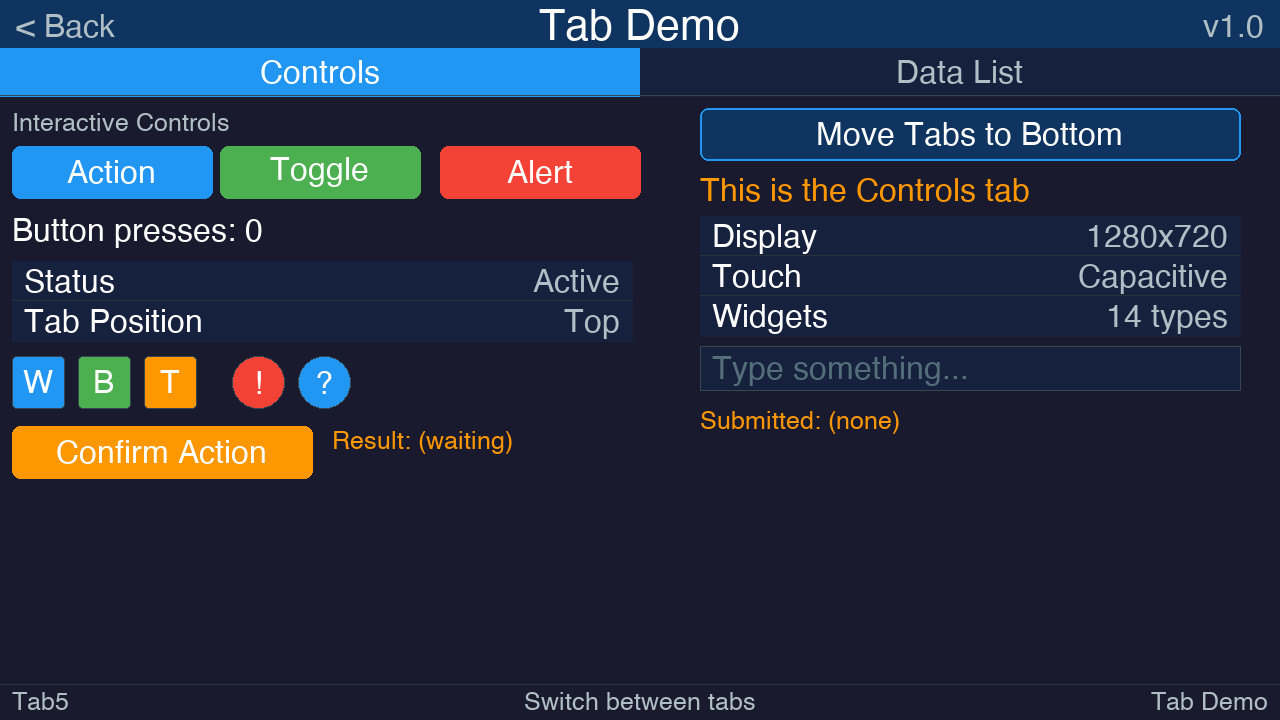
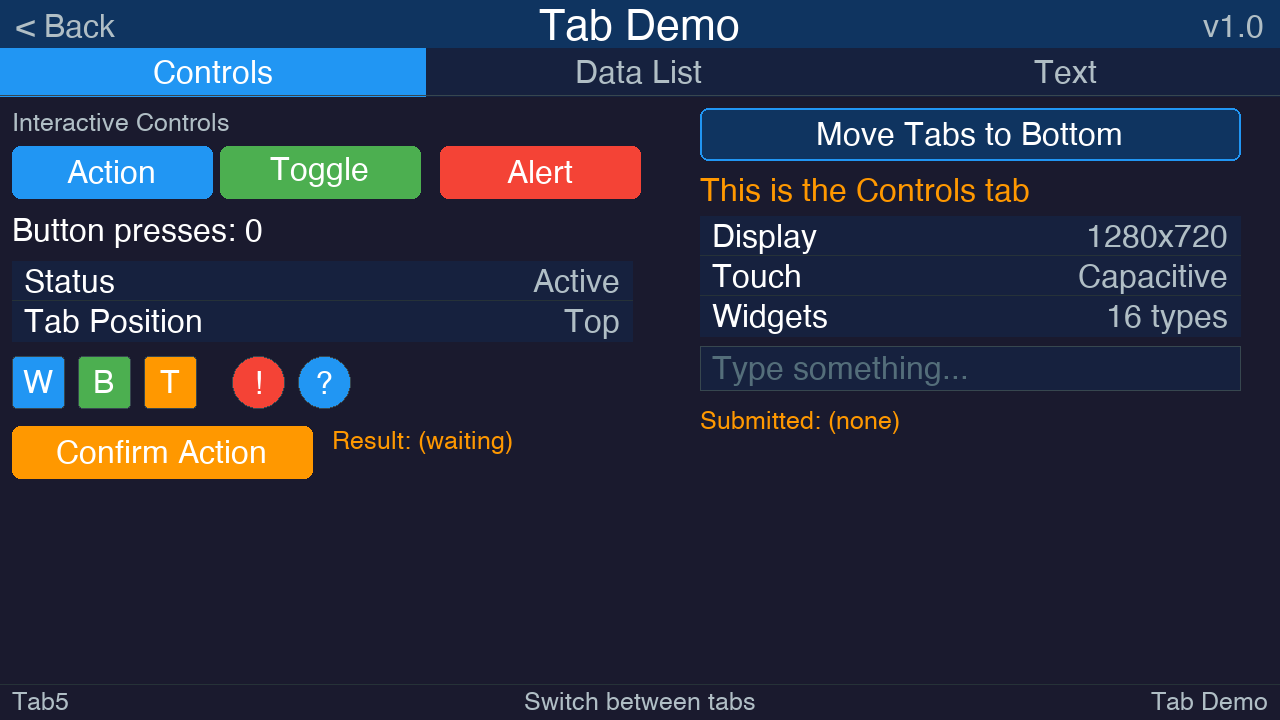
Added UIScrollText widget

Changed region(s): [[0.125, 0.0611, 0.5625, 0.1528], [0.6875, 0.0917, 0.875, 0.1222], [0.875, 0.4278, 0.9062, 0.4583]]

diff --git a/Tab5UI.cpp b/Tab5UI.cpp
@@ -2035,6 +2035,235 @@ void UIConfirmPopup::handleTouchUp(int16_t tx, int16_t ty) {
 }
 
 // ═════════════════════════════════════════════════════════════════════════════
+//  UIScrollText
+// ═════════════════════════════════════════════════════════════════════════════
+
+UIScrollText::UIScrollText(int16_t x, int16_t y, int16_t w, int16_t h,
+                           uint32_t bgColor, uint32_t textColor)
+    : UIElement(x, y, w, h)
+    , _bgColor(bgColor), _textColor(textColor)
+{
+    _text[0] = '\0';
+}
+
+void UIScrollText::setText(const char* text) {
+    strncpy(_text, text, TAB5_SCROLLTEXT_MAX_LEN - 1);
+    _text[TAB5_SCROLLTEXT_MAX_LEN - 1] = '\0';
+    _needsWrap = true;
+    _scrollOffset = 0;
+    _dirty = true;
+}
+
+void UIScrollText::scrollTo(int16_t offset) {
+    _scrollOffset = offset;
+    clampScroll();
+    _dirty = true;
+}
+
+void UIScrollText::scrollToBottom() {
+    _scrollOffset = maxScroll();
+    _dirty = true;
+}
+
+int16_t UIScrollText::maxScroll() const {
+    int16_t contentH = totalContentHeight();
+    int16_t innerH = _h - TAB5_PADDING * 2;  // top + bottom padding
+    if (contentH <= innerH) return 0;
+    return contentH - innerH;
+}
+
+void UIScrollText::clampScroll() {
+    int16_t ms = maxScroll();
+    if (_scrollOffset < 0) _scrollOffset = 0;
+    if (_scrollOffset > ms) _scrollOffset = ms;
+}
+
+void UIScrollText::reflow(M5GFX& gfx) {
+    int16_t contentW = _w - TAB5_PADDING * 2 - TAB5_LIST_SCROLLBAR_W - 4;
+    _lineCount = wordWrap(gfx, _text, _textSize,
+                          contentW, _lineStarts, _lineLengths,
+                          TAB5_SCROLLTEXT_MAX_LINES);
+    gfx.setTextSize(_textSize);
+    _lineH = (int16_t)(gfx.fontHeight() * _textSize) + 4;
+    clampScroll();
+    _needsWrap = false;
+}
+
+int UIScrollText::wordWrap(M5GFX& gfx, const char* text, float textSize,
+                           int16_t maxWidth, int16_t* lineStarts,
+                           int16_t* lineLengths, int maxLines)
+{
+    gfx.setTextSize(textSize);
+    int lines = 0;
+    int len   = strlen(text);
+    int pos   = 0;
+
+    while (pos < len && lines < maxLines) {
+        int bestBreak = -1;
+        int i = pos;
+        char buf[257];
+
+        while (i < len) {
+            int runLen = i - pos + 1;
+            if (runLen > 255) runLen = 255;
+            memcpy(buf, text + pos, runLen);
+            buf[runLen] = '\0';
+            int16_t tw = gfx.textWidth(buf);
+            if (tw > maxWidth && bestBreak > pos) {
+                break;
+            }
+            if (text[i] == ' ' || text[i] == '-') {
+                bestBreak = i;
+            }
+            if (text[i] == '\n') {
+                bestBreak = i;
+                break;
+            }
+            i++;
+        }
+
+        int lineEnd;
+        int nextPos;
+        if (i >= len) {
+            lineEnd = len;
+            nextPos = len;
+        } else if (text[i] == '\n' || (bestBreak >= pos && text[bestBreak] == '\n')) {
+            int brk = (text[i] == '\n') ? i : bestBreak;
+            lineEnd = brk;
+            nextPos = brk + 1;
+        } else if (bestBreak > pos) {
+            lineEnd = bestBreak + 1;
+            nextPos = bestBreak + 1;
+        } else {
+            lineEnd = (i > pos) ? i : pos + 1;
+            nextPos = lineEnd;
+        }
+
+        lineStarts[lines]  = pos;
+        lineLengths[lines] = lineEnd - pos;
+        lines++;
+        pos = nextPos;
+    }
+
+    if (lines == 0) {
+        lineStarts[0]  = 0;
+        lineLengths[0] = 0;
+        lines = 1;
+    }
+    return lines;
+}
+
+void UIScrollText::draw(M5GFX& gfx) {
+    if (!_visible) return;
+
+    // Reflow text if needed
+    if (_needsWrap) {
+        reflow(gfx);
+    }
+
+    // Background fill
+    gfx.fillRect(_x, _y, _w, _h, rgb888(_bgColor));
+
+    // Border
+    gfx.drawRect(_x, _y, _w, _h, rgb888(_borderColor));
+
+    // Inner content area (padded)
+    int16_t innerX = _x + TAB5_PADDING;
+    int16_t innerY = _y + TAB5_PADDING;
+    int16_t innerW = _w - TAB5_PADDING * 2 - TAB5_LIST_SCROLLBAR_W - 2;
+    int16_t innerH = _h - TAB5_PADDING * 2;
+
+    // Clip to content area
+    gfx.setClipRect(_x + 1, _y + 1, _w - 2, _h - 2);
+
+    // Draw visible text lines
+    gfx.setTextSize(_textSize);
+    gfx.setTextDatum(textdatum_t::top_left);
+    gfx.setTextColor(rgb888(_textColor));
+
+    char lineBuf[257];
+    for (int i = 0; i < _lineCount; i++) {
+        int16_t lineY = innerY + (i * _lineH) - _scrollOffset;
+
+        // Skip lines outside visible area
+        if (lineY + _lineH <= _y || lineY >= _y + _h) continue;
+
+        int len = _lineLengths[i];
+        if (len > 255) len = 255;
+        memcpy(lineBuf, _text + _lineStarts[i], len);
+        // Trim trailing spaces
+        while (len > 0 && lineBuf[len - 1] == ' ') len--;
+        lineBuf[len] = '\0';
+        gfx.drawString(lineBuf, innerX, lineY);
+    }
+
+    // Clear clip
+    gfx.clearClipRect();
+
+    // Scrollbar (only if content overflows)
+    int16_t contentH = totalContentHeight();
+    if (contentH > innerH) {
+        int16_t sbX = _x + _w - TAB5_LIST_SCROLLBAR_W - 1;
+        int16_t sbAreaH = _h - 2;
+
+        // Scrollbar track
+        gfx.fillRect(sbX, _y + 1, TAB5_LIST_SCROLLBAR_W, sbAreaH,
+                     rgb888(darken(_bgColor, 60)));
+
+        // Scrollbar thumb
+        float visibleRatio = (float)innerH / (float)contentH;
+        int16_t thumbH = (int16_t)(sbAreaH * visibleRatio);
+        if (thumbH < 20) thumbH = 20;
+
+        int16_t ms = maxScroll();
+        float scrollRatio = (ms > 0) ? (float)_scrollOffset / (float)ms : 0.0f;
+        int16_t thumbY = _y + 1 + (int16_t)((sbAreaH - thumbH) * scrollRatio);
+
+        gfx.fillSmoothRoundRect(sbX, thumbY, TAB5_LIST_SCROLLBAR_W, thumbH,
+                                 3, rgb888(Tab5Theme::TEXT_DISABLED));
+    }
+
+    _dirty = false;
+}
+
+void UIScrollText::handleTouchDown(int16_t tx, int16_t ty) {
+    if (!hitTest(tx, ty)) return;
+    _pressed = true;
+    _dragging = false;
+    _wasDrag = false;
+    _touchStartY = ty;
+    _touchDownY = ty;
+    _scrollStart = _scrollOffset;
+    if (_onTouch) _onTouch(TouchEvent::TOUCH);
+}
+
+void UIScrollText::handleTouchMove(int16_t tx, int16_t ty) {
+    if (!_pressed) return;
+
+    int16_t dy = _touchStartY - ty;
+
+    // Check if movement exceeds drag threshold
+    int16_t totalDy = ty - _touchDownY;
+    if (!_wasDrag && (totalDy > DRAG_THRESHOLD || totalDy < -DRAG_THRESHOLD)) {
+        _wasDrag = true;
+    }
+
+    if (_wasDrag) {
+        _scrollOffset = _scrollStart + dy;
+        clampScroll();
+        _dirty = true;
+    }
+}
+
+void UIScrollText::handleTouchUp(int16_t tx, int16_t ty) {
+    if (!_pressed) return;
+    _pressed = false;
+    _dragging = false;
+    _wasDrag = false;
+    if (_onRelease) _onRelease(TouchEvent::TOUCH_RELEASE);
+}
+
+// ═════════════════════════════════════════════════════════════════════════════
 //  UIList
 // ═════════════════════════════════════════════════════════════════════════════
 

diff --git a/Tab5UI.h b/Tab5UI.h
@@ -5,7 +5,7 @@
  * 5-inch 1280x720 IPS capacitive touchscreen.
  *
  * Widgets: Label, Button, TitleBar, StatusBar, TextRow, IconSquare, IconCircle,
- *          Menu, TextInput, Keyboard, TabView, ConfirmPopup
+ *          Menu, TextInput, Keyboard, TabView, ConfirmPopup, ScrollText
  * All widgets support touch and touch-release event callbacks.
  *
  * License: MIT
@@ -928,6 +928,86 @@ private:
     // Auto-size the popup based on text content
     void autoSize(M5GFX& gfx);
     // Re-use UIInfoPopup's word-wrap (same signature)
+    static int wordWrap(M5GFX& gfx, const char* text, float textSize,
+                        int16_t maxWidth, int16_t* lineStarts,
+                        int16_t* lineLengths, int maxLines);
+};
+
+/*******************************************************************************
+ * UIScrollText — Read-only scrollable word-wrapped text display
+ *
+ * Usage:
+ *   UIScrollText scrollText(20, 60, 600, 400);
+ *   scrollText.setText("A long block of text that will be word-wrapped "
+ *                      "to fit the width of the widget and scrollable "
+ *                      "via touch-drag.");
+ *   ui.addElement(&scrollText);
+ *
+ * The text is word-wrapped to the widget width and scrollable by
+ * touch-dragging up/down.  A scrollbar appears when content overflows.
+ * Explicit newlines (\n) in the text are honored.
+ ******************************************************************************/
+#define TAB5_SCROLLTEXT_MAX_LEN   2048   // Max text buffer size
+#define TAB5_SCROLLTEXT_MAX_LINES 128    // Max wrapped lines
+
+class UIScrollText : public UIElement {
+public:
+    UIScrollText(int16_t x, int16_t y, int16_t w, int16_t h,
+                 uint32_t bgColor   = Tab5Theme::BG_MEDIUM,
+                 uint32_t textColor = Tab5Theme::TEXT_PRIMARY);
+
+    void draw(M5GFX& gfx) override;
+    void handleTouchDown(int16_t tx, int16_t ty) override;
+    void handleTouchMove(int16_t tx, int16_t ty) override;
+    void handleTouchUp(int16_t tx, int16_t ty) override;
+
+    // ── Content ──
+    void setText(const char* text);
+    const char* getText() const { return _text; }
+
+    // ── Appearance ──
+    void setTextSize(float s)          { _textSize = s; _needsWrap = true; _dirty = true; }
+    void setBgColor(uint32_t c)        { _bgColor = c; _dirty = true; }
+    void setTextColor(uint32_t c)      { _textColor = c; _dirty = true; }
+    void setBorderColor(uint32_t c)    { _borderColor = c; _dirty = true; }
+
+    // ── Scroll control ──
+    void scrollTo(int16_t offset);
+    void scrollToTop()                 { scrollTo(0); }
+    void scrollToBottom();
+
+private:
+    char     _text[TAB5_SCROLLTEXT_MAX_LEN];
+    float    _textSize      = TAB5_FONT_SIZE_MD;
+
+    uint32_t _bgColor;
+    uint32_t _textColor;
+    uint32_t _borderColor   = Tab5Theme::BORDER;
+
+    // Word-wrap cache
+    bool     _needsWrap     = true;
+    int      _lineCount     = 0;
+    int16_t  _lineStarts[TAB5_SCROLLTEXT_MAX_LINES];
+    int16_t  _lineLengths[TAB5_SCROLLTEXT_MAX_LINES];
+    int16_t  _lineH         = 0;    // Pixel height per line
+
+    // Scroll state
+    int16_t  _scrollOffset  = 0;
+
+    // Touch-drag state (same pattern as UIList)
+    bool     _dragging      = false;
+    int16_t  _touchStartY   = 0;
+    int16_t  _scrollStart   = 0;
+    int16_t  _touchDownY    = 0;
+    bool     _wasDrag       = false;
+    static constexpr int16_t DRAG_THRESHOLD = 8;
+
+    int16_t  totalContentHeight() const { return _lineCount * _lineH; }
+    int16_t  maxScroll() const;
+    void     clampScroll();
+    void     reflow(M5GFX& gfx);
+
+    // Word-wrap helper (same signature as UIInfoPopup)
     static int wordWrap(M5GFX& gfx, const char* text, float textSize,
                         int16_t maxWidth, int16_t* lineStarts,
                         int16_t* lineLengths, int maxLines);

diff --git a/README.md b/README.md
@@ -20,6 +20,7 @@ A lightweight, Arduino-compatible UI widget library built on **M5GFX** for the M
 | **UITabView** | Multi-page tabbed container with configurable top/bottom tab bar |
 | **UIInfoPopup** | Auto-sized modal info popup with title, message, and OK button |
 | **UIConfirmPopup** | Auto-sized modal confirm popup with title, message, and Yes/No buttons |
+| **UIScrollText** | Read-only scrollable word-wrapped text display with touch-drag scrolling |
 | **UIManager** | Registers elements, dispatches touch events, manages dirty redraws |
 
 ### Touch Handling
@@ -492,6 +493,32 @@ green).  Use `setOnConfirm()` to receive a `ConfirmResult` enum indicating
 which button was pressed.  Tapping outside the popup is treated as **No**.
 The last result is also available via `getResult()`.
 
+### UIScrollText
+
+```cpp
+UIScrollText(x, y, w, h, bgColor, textColor);
+void setText(const char* text);       // Set text content (up to 2048 chars)
+const char* getText() const;
+
+// Appearance
+void setTextSize(float s);            // Font size (default: TAB5_FONT_SIZE_MD)
+void setBgColor(uint32_t c);
+void setTextColor(uint32_t c);
+void setBorderColor(uint32_t c);
+
+// Scroll control
+void scrollTo(int16_t offset);        // Pixel offset from top
+void scrollToTop();
+void scrollToBottom();
+```
+
+**Behavior:** Displays read-only text that is automatically word-wrapped to
+the widget width.  Explicit newlines (`\n`) in the text are honored.  When
+the wrapped text exceeds the visible area, a scrollbar appears on the right
+side and the content can be scrolled by touch-dragging up/down.  The drag
+threshold (8px) prevents accidental scrolls from taps.  Supports up to
+2048 characters and 128 wrapped lines.
+
 ### UIManager
 
 ```cpp
@@ -528,7 +555,8 @@ Tab5UI/
 │   ├── screenshot5_list.png
 │   ├── screenshot6_tab_controls.png
 │   ├── screenshot7_tab_list.png
-│   └── screenshot8_confirm_popup.png
+│   ├── screenshot8_confirm_popup.png
+│   └── screenshot9_tab_text.png
 └── examples/
     ├── Tab5UI_Demo/
     │   └── Tab5UI_Demo.ino           # Full demo sketch
@@ -581,6 +609,9 @@ Tab5UI/
 
 ### Confirm Popup
 ![Confirm popup](screenshots/screenshot8_confirm_popup.png)
+
+### Tab Demo — Scrollable Text
+![Tab Scrollable Text](screenshots/screenshot9_tab_text.png)
 
 ## License
 
